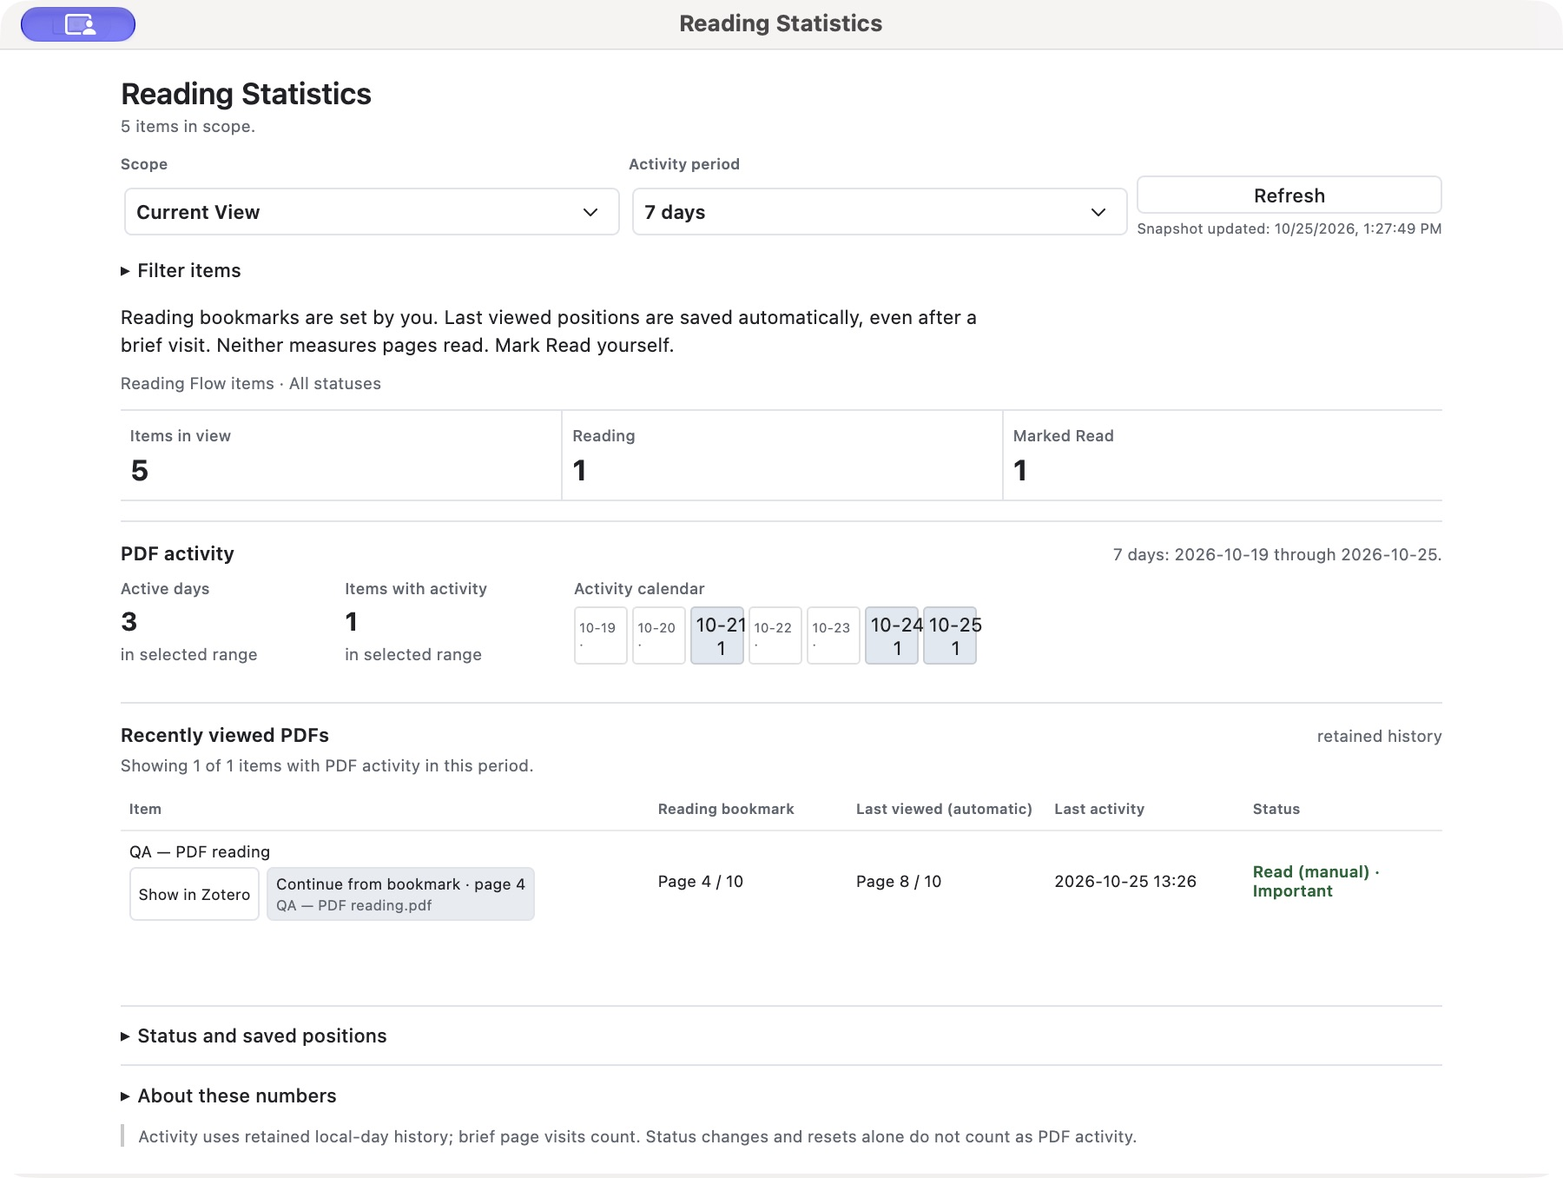
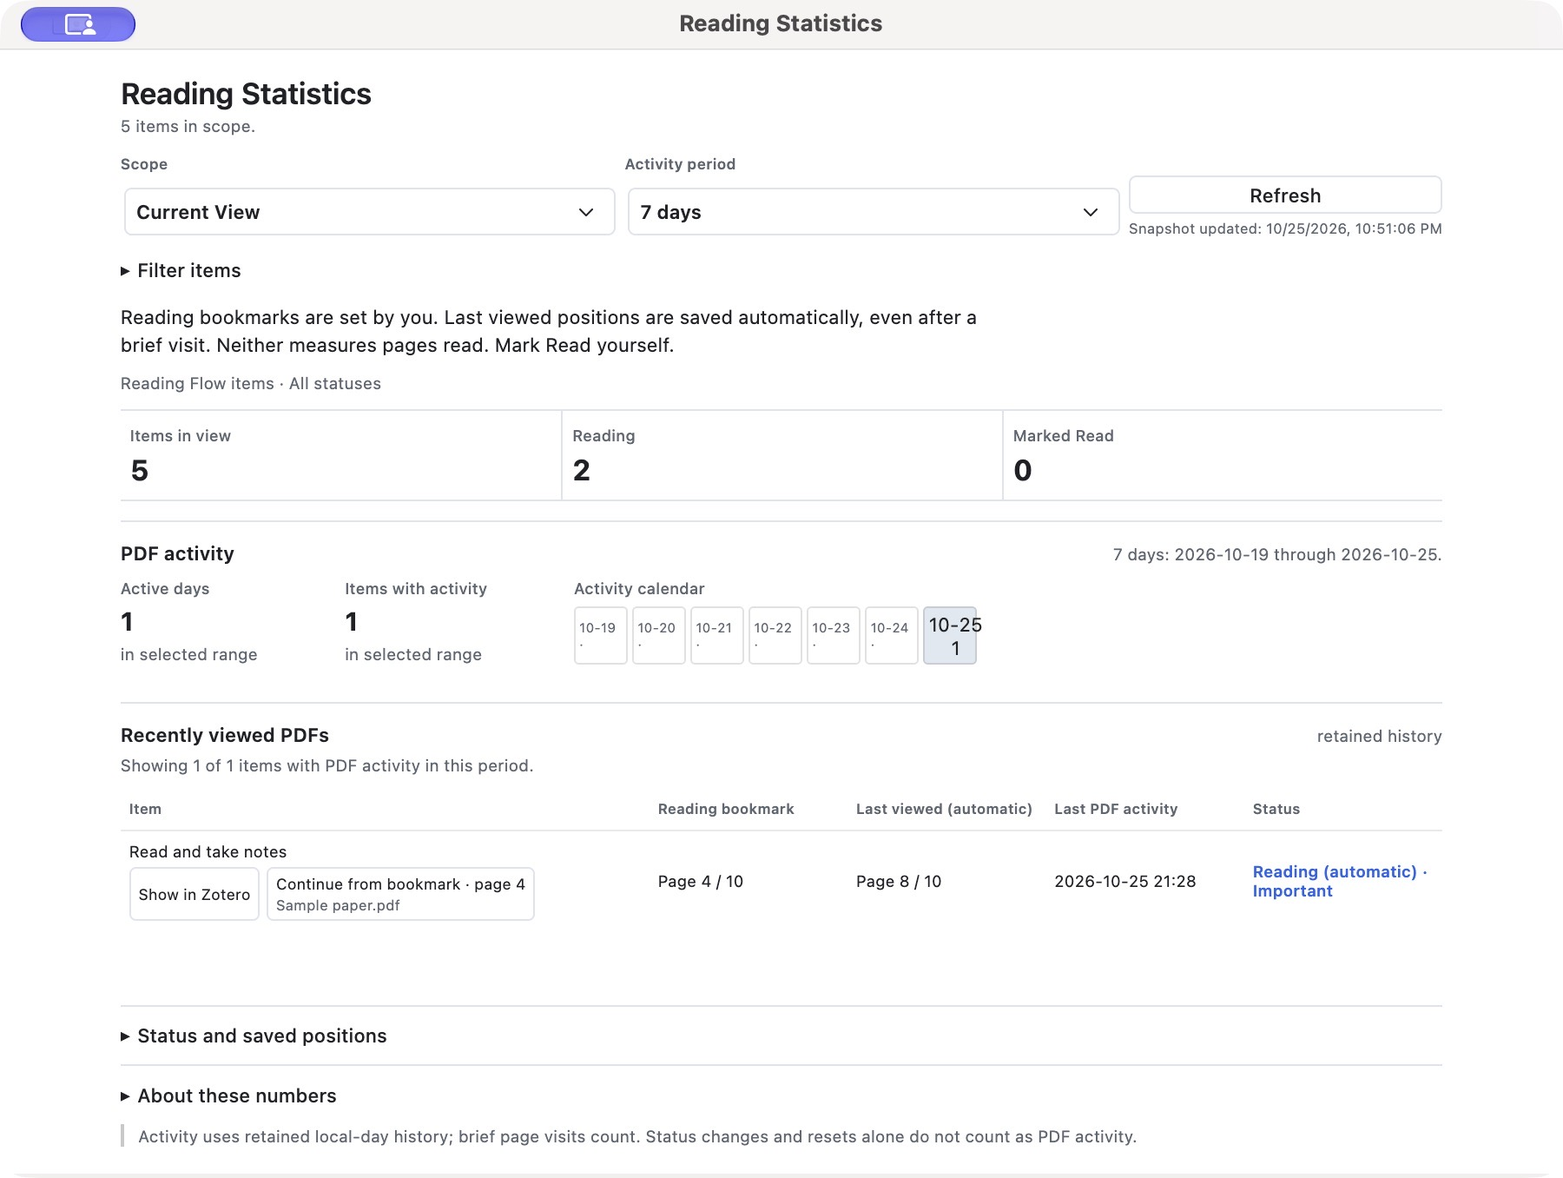
docs: document remaining workflows with English Zotero captures (#38)

diff --git a/docs/assets/README.md b/docs/assets/README.md
@@ -1,18 +1,53 @@
 # Screenshot provenance
 
-The 1.3.8 captures are original, unedited images of English Zotero 10.0.6 for macOS running the released 1.3.8 build in a separate test profile. The 1.3.9 reading-start capture is an original, unedited image of Zotero 10.0.6 with a Korean host-app locale and the 1.3.9 QA source from the exact tree now tagged and released as 1.3.9. None are generated mockups or contain personal library records. Window layout changes and sample status choices were confined to isolated test profiles. Version 1.3.9 is available from the [latest release](https://github.com/Moonweave-Research/zotero-reading-flow/releases/latest).
+All screenshot sources are actual English Zotero 10.0.6 for macOS running released Reading Flow 1.3.8 or 1.3.9 in separate test profiles. The reading-start, settings, statistics, and additional-workflow images have been refreshed using the 1.3.9 XPI. None are generated UI mockups or contain personal library records. Window layout changes and sample status choices were confined to isolated test profiles. Version 1.3.9 is available from the [latest release](https://github.com/Moonweave-Research/zotero-reading-flow/releases/latest).
 
 | File | Feature shown | Capture context |
 | --- | --- | --- |
 | reading-status-library.jpg | Four manual stages, unassigned + Important, compact positions, and the item panel | QA sample library; bookmark 4/10; last viewed 8/10; Read + Important |
 | reading-bookmark-button.jpg | Bookmark here in the upper-right PDF toolbar | QA PDF reader at page 4/10 |
 | reading-bookmark-panel.jpg | Distinct bookmark and automatic-position actions, status, dates | 1.3.8 labels: First recorded and Last activity; bookmark 4/10; last viewed 8/10 |
-| reading-bookmarks-statistics.jpg | Activity calendar, manual Marked Read, separate position columns | 1.3.8 label: Last activity; bookmark 4/10; last viewed 8/10; manually Read and Important |
-| reading-flow-settings.jpg | Sidebar controls, column density, prospective new-item default | Compact and Unassigned shown; test-profile settings only |
+| reading-bookmarks-statistics.jpg | Activity calendar, manual Marked Read count, separate position columns | 1.3.9; bookmark 4/10; last viewed 8/10; Reading automatic + Important; Marked Read 0 |
+| reading-flow-settings.jpg | Sidebar controls, column density, prospective new-item default | 1.3.9; Compact and Unassigned shown; test-profile settings only |
 | reading-list-sidebar.jpg | Native, selected tracked-papers Saved Search and concise positions | QA sample library; five items with status metadata |
-| reading-started-qa-v1.3.9.png | Manual Reading status, explicit Reading started date, separate Last PDF activity, bookmark, and automatic last-viewed fields | 1.3.9 QA source in an isolated profile; no PDF attached, so PDF activity and positions are not recorded |
+| reading-started-qa-v1.3.9.png | Manual Reading status, explicit Reading started date, separate Last PDF activity, bookmark, and automatic last-viewed fields | English 1.3.9 XPI in an isolated profile; no PDF attached, so PDF activity and positions are not recorded |
 
 ## Detail views
+
+### English 1.3.9 workflow captures
+
+The files in `workflows/` are new, real English Zotero 10.0.6 captures using Reading Flow 1.3.9 in a separately identified QA app, profile, and data folder. The library contains only synthetic papers and two generated ten-page sample PDFs. No personal library records are shown. Display-density and column-layout changes were confined to that QA profile. Full-window captures are JPEG exports of the original PNG observations; detail PNGs crop the original observations without relabeling controls.
+
+| File | Observed behavior |
+| --- | --- |
+| workflows/batch-menu.jpg | Three selected synthetic papers and the Reading Flow context submenu |
+| workflows/batch-result.jpg | All three selected papers now show To Read; the existing Reading item is unchanged |
+| workflows/density-compact.jpg | Combined column showing symbols, bookmark 4/10, automatic position 8/10, and PDF activity date |
+| workflows/density-icons.jpg | The same rows and data in Icons mode; the separate Status column is unchanged |
+| workflows/bookmark-undo.jpg | PDF reader at page 4 immediately after Bookmark here, showing Undo and Saved |
+| workflows/status-manual-before.jpg | Read manual with Important, retained dates, bookmark 4 in Sample paper.pdf, last viewed 3 in Supplement.pdf |
+| workflows/status-automatic-after.jpg | After clearing the manual stage: Reading automatic, with the same flag, dates, bookmark, and automatic position |
+| workflows/statistics-filters.jpg | Selected Library, Reading, and Important only leave one matching paper |
+| workflows/statistics-day.jpg | Selected activity day shows recorded page 8, current Reading automatic + Important, and bookmark action page 4 |
+| workflows/multiple-pdfs.jpg | Distinct Bookmark PDF and Last viewed PDF names and page-opening actions |
+| workflows/missing-bookmarked-pdf.jpg | Missing bookmarked file explicitly labeled Unavailable; independent last-viewed action remains |
+
+| Detail PNG | Original observation | Crop (`x, y, width, height`) |
+| --- | --- | --- |
+| workflows/batch-result-detail.png | batch-result | 410, 155, 1515, 420 |
+| workflows/density-compact-detail.png | density-compact | 1035, 160, 875, 370 |
+| workflows/density-icons-detail.png | density-icons | 1035, 160, 875, 370 |
+| workflows/bookmark-undo-detail.png | bookmark-undo | 1320, 75, 460, 85 |
+| workflows/status-manual-detail.png | status-manual-before | 1295, 155, 620, 500 |
+| workflows/status-automatic-detail.png | status-automatic-after | 1295, 155, 620, 500 |
+| workflows/statistics-filters-detail.png | statistics-filters | 115, 175, 1540, 285 |
+| workflows/statistics-day-detail.png | statistics-day | 635, 800, 1020, 410 |
+| workflows/multiple-pdfs-detail.png | multiple-pdfs | 1295, 440, 620, 445 |
+| workflows/missing-bookmarked-pdf-detail.png | missing-bookmarked-pdf | 1295, 440, 620, 520 |
+
+Native checks also exercised Undo (bookmark changed to page 6, then restored to page 4), the disabled general bookmark button with two loaded PDF readers, statistics-window reopening, and restoration of the temporarily unavailable QA PDF with its original SHA-256. The early QA session did not open the statistics window; after a normal QA-only restart, opening and reopening the window through the context menu succeeded. The cause of that early-session failure is not established, and no application-code fix is claimed by this documentation change.
+
+### Earlier workflow details
 
 These PNGs are rectangular crops of the original English 1.3.8 screenshots above. Their controls and labels have not been redrawn or relabeled. The README displays them at readable widths; they are existing capture details, not new runtime verification. The book-symbol key beside the Status crop is a written legend verified against `src/columnManager.ts`, not a screenshot of the combined column.
 
@@ -27,7 +62,7 @@ Crop coordinates use the original image's top-left origin, in pixels (`x, y, wid
 | detail-panel-shortcut.png | reading-status-library.jpg | 2934, 635, 90, 75 |
 | detail-bookmark-actions.png | reading-bookmark-panel.jpg | 2315, 470, 630, 410 |
 
-Screens represent separate moments in their sample workflows, not one simultaneous snapshot. The reader toolbar capture shows page 4; the library, panel, and statistics captures show bookmark page 4 and automatic last viewed page 8. Those captures use the published 1.3.8 build. The 1.3.9 QA-source capture demonstrates the explicit start date without implying PDF reading activity or pages read; its source tree is the one published in the 1.3.9 release.
+Screens represent separate moments in their sample workflows, not one simultaneous snapshot. The original 1.3.8 library/panel captures and refreshed 1.3.9 statistics show bookmark page 4 and automatic page 8. Later 1.3.9 multi-PDF captures show bookmark page 4 in Sample paper.pdf and automatic page 3 in Supplement.pdf. The reading-start example has no PDF and makes no claim about PDF activity or pages read.
 
 The sample titled QA — Unsupported record retains a legacy Important record after earlier compatibility testing; the title is a fixture label, not a current parser-error diagnosis. Its Unassigned + Important display demonstrates that the flag does not imply a reading stage.
 

diff --git a/docs/VISUAL_GUIDE.md b/docs/VISUAL_GUIDE.md
@@ -1,0 +1,93 @@
+# More ways to use Reading Flow
+
+[Back to the main reading workflow](../README.md#a-simple-reading-workflow)
+
+These English Zotero 10.0.6 captures use Reading Flow 1.3.9 and synthetic papers in an isolated QA profile. Detail views crop the real captures; full-window images are linked where useful.
+
+## Change several papers together
+
+Select papers in Zotero's library, right-click, and open **Reading Flow**. Choose **Mark as To Read**, **Mark as Reading**, **Mark as Skimmed**, or **Mark as Read**. **Mark as Important** and **Clear Important** change the independent flag.
+
+[See the actual multi-selection menu](assets/workflows/batch-menu.jpg).
+
+![Actual result after changing three selected sample papers to To Read](assets/workflows/batch-result-detail.png)
+
+*The three selected papers now share To Read. The other papers keep their own stages. These samples have no PDF activity; changing their stage does not invent activity.*
+
+The result message reports changed, unchanged, skipped, and failed items. Selecting a parent paper and its PDF does not update that parent twice. Read-only or ineligible items are skipped; batches of 100 or more require confirmation.
+
+## Compare Compact and Icons
+
+First enable the optional combined **Reading Flow** column with Zotero's native column chooser. Open **Settings → Zotero Reading Flow → Reading Flow column density**.
+
+**Compact** keeps the stage symbol, bookmark, automatic position, and PDF activity date together:
+
+![Actual Compact column detail with book symbols and bookmark page 4, automatic position page 8, and activity date](assets/workflows/density-compact-detail.png)
+
+**Icons** shows the stage symbol and independent Important star. Hover over a cell for the full details:
+
+![Actual Icons column detail for the same sample papers, showing books and an independent Important star](assets/workflows/density-icons-detail.png)
+
+*These are the same papers, with the same saved data. Only the combined column's presentation changed. The separate Status column stays visible in both examples. [Full Compact view](assets/workflows/density-compact.jpg) · [Full Icons view](assets/workflows/density-icons.jpg).*
+
+## Undo a bookmark change
+
+Immediately after **Bookmark here**, **Undo** appears beside it in the PDF toolbar:
+
+![Actual PDF toolbar showing Bookmark here, Undo, and Saved after saving page 4](assets/workflows/bookmark-undo-detail.png)
+
+Use **Undo** to restore the previous bookmark. In the library panel the action is called **Undo bookmark change**. Undo is available for the current app session and will not overwrite a newer bookmark change from another client.
+
+**Remove bookmark** clears the bookmark while keeping the automatic last-viewed position. The panel's **Set reading bookmark here** requires one open PDF for the paper; use the intended PDF's toolbar when several are open. [Full PDF reader capture](assets/workflows/bookmark-undo.jpg).
+
+## Return to automatic status
+
+Right-click the paper → **Reading Flow → Clear Manual Status (Use Automatic)**.
+
+- A paper with a bookmark or recorded PDF activity becomes **Reading (automatic)**.
+- Without that evidence, the stage becomes **Unassigned**.
+- The bookmark, automatic position, Important flag, and any previously recorded reading start date are retained.
+
+This removes the manual override. It does not mark the paper Read or measure how many pages you read.
+
+<table>
+<tr><th>Before: Read (manual)</th><th>After: Reading (automatic)</th></tr>
+<tr>
+<td><img src="assets/workflows/status-manual-detail.png" alt="Before clearing the manual stage: Read manual, Important, bookmark page 4 and automatic page 3 with two named PDFs" width="350"></td>
+<td><img src="assets/workflows/status-automatic-detail.png" alt="After clearing the manual stage: Reading automatic with the same Important flag, dates, pages, and PDF identities" width="350"></td>
+</tr>
+</table>
+
+*Only the stage's manual override changed. The checked Important flag, dates, bookmark, and automatic position are the same. [Full before view](assets/workflows/status-manual-before.jpg) · [Full after view](assets/workflows/status-automatic-after.jpg).*
+
+## Explore the statistics filters
+
+Open **Tools → Reading Statistics**. **Scope** chooses **Current View** or **Selected Library**. **Activity period** selects retained PDF activity; it does not reconstruct the paper's past status.
+
+Expand **Filter items** to choose **Reading Flow items** or **All items (inventory)**, a stage, and **Important only**. Click an active calendar day to inspect papers with recorded PDF page changes on that date; click it again to clear the date selection.
+
+![Actual statistics filters set to Selected Library, 7 days, Reading, and Important only](assets/workflows/statistics-filters-detail.png)
+
+*These filters leave one matching paper in this sample. [Full filtered dashboard](assets/workflows/statistics-filters.jpg).*
+
+![Actual selected activity day showing one paper at recorded page 8, current Reading automatic with Important, and a distinct action to return to bookmark page 4](assets/workflows/statistics-day-detail.png)
+
+*The date detail shows a recorded location for that day, alongside the paper's current status. Its bookmark action returns to the page you deliberately saved. [Full selected-day dashboard](assets/workflows/statistics-day.jpg).*
+
+**Show in Zotero** selects a paper in the library. The PDF action opens its displayed bookmark or automatic location. **Marked Read** counts your manual Read choices. Status changes alone do not count as PDF activity.
+
+## Several PDFs or an unavailable attachment
+
+A bookmark belongs to one specific PDF. When that PDF and the automatically tracked PDF differ, the panel names the files separately. Use **Bookmark here** inside the PDF you mean to mark.
+
+![Actual panel distinguishing a page 4 bookmark in Sample paper.pdf from last viewed page 3 in Supplement.pdf](assets/workflows/multiple-pdfs-detail.png)
+
+*The bookmark belongs to **Sample paper.pdf**, page 4. The automatic position belongs to **Supplement.pdf**, page 3. Each button opens its own file and position. [Full two-PDF view](assets/workflows/multiple-pdfs.jpg).*
+
+If the bookmarked file is unavailable, its page is not silently applied to a different PDF. If multiple PDFs for one paper are open, the panel's general bookmark button is disabled; each reader's **Bookmark here** still identifies the intended file.
+
+![Actual missing-file state retaining bookmark page 4, labeling Bookmark PDF Unavailable, and offering last viewed page 3 in Supplement.pdf separately](assets/workflows/missing-bookmarked-pdf-detail.png)
+
+*The saved page remains visible, but **The bookmarked PDF file is unavailable on this device** replaces the bookmark-opening action. The separate automatic position can still be opened. This QA file was restored after the capture. [Full unavailable-file view](assets/workflows/missing-bookmarked-pdf.jpg).*
+
+[Back to the README](../README.md) · [Troubleshooting](TROUBLESHOOTING.md) · [Capture provenance](assets/README.md)

diff --git a/README.md b/README.md
@@ -15,11 +15,11 @@
 Reading Flow helps you return to the page you meant to keep. Leave a **reading bookmark**, browse another section, and come back without losing your place. See that bookmark, your last viewed page, and your chosen reading status directly in Zotero.
 
 > [!IMPORTANT]
-> **Most workflow screenshots show Reading Flow 1.3.8.** The new **Reading started** example shows the 1.3.9 QA build, now available in the [latest release](https://github.com/Moonweave-Research/zotero-reading-flow/releases/latest). The captions call out where older screenshots use earlier date labels.
+> Screenshots use **English Zotero 10.0.6** with Reading Flow **1.3.8 or 1.3.9**. The start-date, settings, statistics, and [additional visual workflows](docs/VISUAL_GUIDE.md) show **1.3.9**, available in the [latest release](https://github.com/Moonweave-Research/zotero-reading-flow/releases/latest). Earlier date labels are identified in the older panel capture.
 
 ![Actual English Zotero library showing To Read, Reading, Skimmed, Read with Important, and independent Unassigned states beside the Reading Flow panel](docs/assets/reading-status-library.jpg)
 
-*See each reading stage in the library, with Important kept separate. These English workflow captures use a separate test library; the Reading started example below has a Korean Zotero host UI. Click a full-window image to inspect it, or use the detail views below.*
+*See each reading stage in the library, with Important kept separate. All captures use separate test libraries with synthetic papers. Click a full-window image to inspect it, or use the detail views below.*
 
 ## Install
 
@@ -74,7 +74,7 @@ Select a paper and set its **Status** in the Reading Flow panel or context menu.
 
 ![Reading Flow showing Reading started separately from Last PDF activity, bookmark, and automatic last-viewed position](docs/assets/reading-started-qa-v1.3.9.png)
 
-*This isolated QA item has no PDF attached. The start date is present while PDF activity and page positions are not. Reading Flow labels are in English; the host Zotero app uses a Korean locale in this capture.*
+*This English 1.3.9 capture shows an item without a PDF. Its manually recorded start date is present while PDF activity and page positions are not.*
 
 ### 2. Save the page you want to return to
 
@@ -139,6 +139,23 @@ Choose **Continue from bookmark** to return to your marked page. **Open last vie
 
 ## Reading list and settings
 
+For the smaller controls and less frequent tasks, see the **[visual guide](docs/VISUAL_GUIDE.md)**: [batch status changes](docs/VISUAL_GUIDE.md#change-several-papers-together), [Compact vs Icons](docs/VISUAL_GUIDE.md#compare-compact-and-icons), [bookmark Undo](docs/VISUAL_GUIDE.md#undo-a-bookmark-change), [automatic status](docs/VISUAL_GUIDE.md#return-to-automatic-status), [statistics filters](docs/VISUAL_GUIDE.md#explore-the-statistics-filters), and [multiple or missing PDFs](docs/VISUAL_GUIDE.md#several-pdfs-or-an-unavailable-attachment).
+
+<details>
+<summary>Compare the actual Compact and Icons columns</summary>
+
+**Compact — stage, saved positions, and activity date:**
+
+<img src="docs/assets/workflows/density-compact-detail.png" alt="Actual English Zotero Compact column showing bookmark 4/10, last viewed 8/10, book symbols, and activity date" width="700">
+
+**Icons — stage and Important symbols; hover for details:**
+
+<img src="docs/assets/workflows/density-icons-detail.png" alt="The same English Zotero rows in Icons mode showing books and the independent Important star" width="700">
+
+*Both captures use Reading Flow 1.3.9. The same saved data is shown in two display modes; the separate Status column is unchanged.*
+
+</details>
+
 Open **Settings → Zotero Reading Flow** to add **Reading Flow — Tracked Papers**, choose the optional combined column's density, or set a default for future eligible additions. The default **Unassigned** leaves new items untouched. Existing items keep their current data.
 
 ![Actual English Zotero Reading Flow settings with sidebar-list controls, Compact density, and Unassigned new-item default](docs/assets/reading-flow-settings.jpg)
@@ -154,9 +171,9 @@ Open **Settings → Zotero Reading Flow** to add **Reading Flow — Tracked Pape
 
 ## Reading statistics
 
-![Actual English Zotero Reading Statistics showing bookmark page 4, automatic page 8, activity dates, and manually chosen Read with Important](docs/assets/reading-bookmarks-statistics.jpg)
+![Actual English Zotero Reading Statistics showing bookmark page 4, automatic page 8, Last PDF activity, and Reading automatic with Important](docs/assets/reading-bookmarks-statistics.jpg)
 
-*You marked page 4, then looked at page 8. The bookmark stays at page 4; Marked Read remains a manual judgment. This 1.3.8 capture says **Last activity**; 1.3.9 calls it **Last PDF activity**.*
+*In this 1.3.9 capture, you bookmarked page 4 and looked at page 8. The item is **Reading (automatic) · Important** and **Marked Read** is 0. Neither reaching a page nor setting a bookmark marks a paper Read.*
 
 Open **Tools → Reading Statistics**, or right-click a paper and choose **Reading Flow → View Current View Statistics**.
 
@@ -168,6 +185,21 @@ The dashboard brings together **reading bookmarks, automatic positions, last PDF
 - **Expand details when needed.** **Position history** contains available daily farthest-position comparisons and reset counts. **Status and saved positions** contains the optional breakdowns.
 
 Detailed PDF activity history retains at most **366 days**; older or legacy activity may be missing. A brief visit can update the last PDF position, but that does not prove the page was read.
+
+<details>
+<summary>See the filters and a selected activity day</summary>
+
+Choose a scope, expand **Filter items**, then combine a stage with **Important only**:
+
+<img src="docs/assets/workflows/statistics-filters-detail.png" alt="Actual English statistics controls: Selected Library, 7 days, Reading Flow items, Reading, and Important only" width="770">
+
+Click an active calendar day to see its matching paper and recorded position. The PDF action still identifies the saved bookmark separately:
+
+<img src="docs/assets/workflows/statistics-day-detail.png" alt="Actual selected activity day showing recorded page 8, Reading automatic with Important, and a separate continue-from-bookmark page 4 action" width="714">
+
+*This sample has one matching paper. Recorded location is the PDF position on the selected day; Current status describes the paper now. [More filter examples and full-window captures](docs/VISUAL_GUIDE.md#explore-the-statistics-filters).*
+
+</details>
 
 ## Questions
 

diff --git a/docs/README.md b/docs/README.md
@@ -4,6 +4,7 @@ Start with the [user guide](../README.md) for installation and a visual feature 
 
 | Document | Purpose |
 | --- | --- |
+| [Additional visual workflows](VISUAL_GUIDE.md) | Batch actions, density comparisons, bookmark Undo, automatic status, and statistics controls |
 | [Troubleshooting](TROUBLESHOOTING.md) | Find controls and diagnose common behavior safely |
 | [Product contract](READING_FLOW_AUTHORITY.md) | Current reading, bookmark, date, and compatibility semantics |
 | [Verification](VERIFICATION.md) | Repeatable checks, native evidence, and unverified limits |
